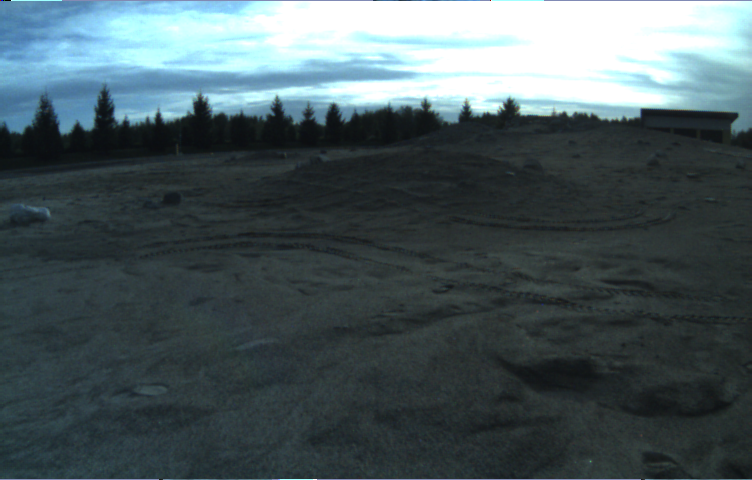
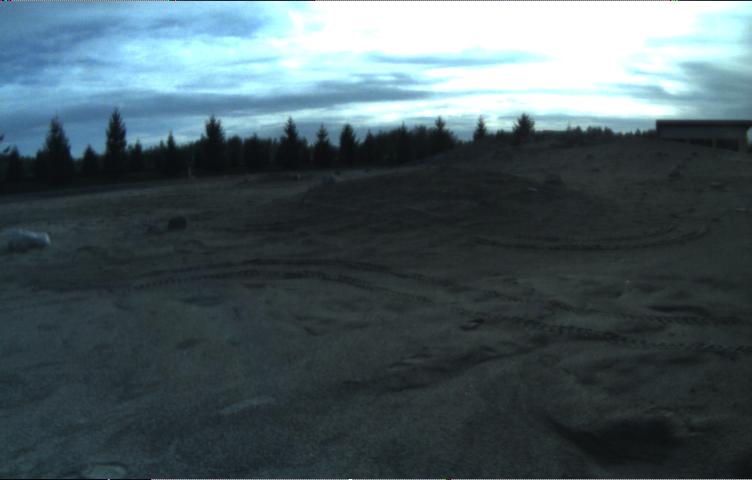
Update via upload

diff --git a/main.py b/main.py
@@ -1,7 +1,8 @@
 import numpy as np
 import cv2 as cv
 import scipy as sp
-import matplotlib.pyplot as plt
+from helper import *
+
 """
 Algorithm: Automatic Panorama Stitching (A simpler version)
 
@@ -11,7 +12,7 @@ Output: Panoramic image
 I. Extract SIFT features from all n images.
 II. Brute-Force Matching with SIFT Descriptors and Ratio Test
 III. For each image:
-    (i) Select m candidate matching images that have the most feature matches to this images (we use m = 5 since we know the omni-camera's configuration and for a given image, there will only be 5 other images that could match it)
+    (i) Select m candidate matching images that have the most feature matches to this images (we use m = 5 since we know the omni-camera's configuration and for a given image, there will only be 5 other images that could match it and we know which images are the candidates)
     (ii) Find consistent feature matches using RANSAC to solve the optimal homography between pairs of images
 IV. Find connected components of image matches
 V. For each connected component:
@@ -19,6 +20,7 @@ V. For each connected component:
     (ii) Render panorama using multi-band blending
 
 """
+
 
 # initializations
 img = []
@@ -32,7 +34,7 @@ sift = cv.SIFT_create()
 for i in range(10):
 
     # import images
-    image = cv.imread('./data/omni_image'+str(i)+'/image.png')
+    image = cv.imread('./data/omni_image'+str(i)+'/processed.png')
     img.append(image)
 
     # make current image to grey scale and
@@ -41,29 +43,35 @@ for i in range(10):
     # detect keypoints and compute descriptors from the keypoints
     kp, des = sift.detectAndCompute(gray,None)
 
-    # collect all the keypoints
+    # collect all the keypoints and descriptors
     kps.append(kp)
     dess.append(des)
 
-# II. Use brute force matching, BFMatcher with default params
-bf = cv.BFMatcher()
-matches = bf.knnMatch(dess[4],dess[5],k=2)
-
-# Store all the good matches as per Lowe's ratio test
-good = []
-for m,n in matches:
-    if m.distance < 0.75*n.distance:
-        good.append([m])
-
 # III. For each image
-for image in img:
+# initialize the brute force matcher
+bf = cv.BFMatcher()
+for cur_index in range(len(img)):
 
-    # (i) select 5 candidate matching images that have the most feature matches to this iamge
-    for i in range(m):
+    # (i) we know the 5 candidate matching images because they are taken by the 5 neighbour cameras
+    cand_images = []
 
+    # obtain the image index, i.e. the camera index for the 5 neighbour images relative to the current image index
+    index = obtain_index(cur_index)
+    for neighb_index in index:
+        cand_images.append(img[neighb_index])
 
+        # (ii)
+        # II. Use brute force matching, BFMatcher with default params
+        good = obtain_good_matches(bf,cur_index,neighb_index,dess)
 
-
+        # for each pair of images (cur_image, neighb_image), using RANSAC to filter inliers of the good matches and to solve for the homography
+        
+    # print(cur_index,neighb_index)
+    # print(len(good))
+    # print(good)
+    # if cur_index == 4 and neighb_index == -3:
+    #     img3 = cv.drawMatchesKnn(img[4],kps[4],img[-3],kps[-3],good,None,flags=cv.DrawMatchesFlags_NOT_DRAW_SINGLE_POINTS)
+    #     cv.imwrite('tests.jpg',img3)
 
 
 # if __name__=="__main__":

diff --git a/preprocessing.py b/preprocessing.py
@@ -1,0 +1,48 @@
+import cv2
+import numpy as np
+
+# def gamma_trans(img,gamma):#gamma函数处理
+#     gamma_table=[np.power(x/255.0,gamma)*255.0 for x in range(256)]#建立映射表
+#     gamma_table=np.round(np.array(gamma_table)).astype(np.uint8)#颜色值为整数
+#     return cv.LUT(img,gamma_table)#图片颜色查表。另外可以根据光强（颜色）均匀化原则设计自适应算法。
+#
+# for i in range(10):
+#     image = cv.imread('./data/omni_image'+str(i)+'/image.png')
+#
+#     value_of_gamma=cv.getTrackbarPos('Value of Gamma','demo')#gamma取值
+#     value_of_gamma=value_of_gamma*0.01#压缩gamma范围，以进行精细调整
+#     image_gamma_correct=gamma_trans(image,value_of_gamma)#2.5为gamma函数的指数值，大于1曝光度下降，大于0小于1曝光度增强
+#     cv.imwrite('./data/omni_image'+str(i)+'/processed.png',image_gamma_correct)
+#
+# print('Processing Completed.')
+
+
+def gamma_trans(img,gamma):#gamma函数处理
+    gamma_table=[np.power(x/255.0,gamma)*255.0 for x in range(256)]#建立映射表
+    gamma_table=np.round(np.array(gamma_table)).astype(np.uint8)#颜色值为整数
+    return cv2.LUT(img,gamma_table)#图片颜色查表。另外可以根据光强（颜色）均匀化原则设计自适应算法。
+def nothing(x):
+    pass
+
+cv2.namedWindow("demo",0)#将显示窗口的大小适应于显示器的分辨率
+cv2.createTrackbar('Value of Gamma','demo',100,1000,nothing)#使用滑动条动态调节参数gamma
+
+data_base_dir="C:\\Users\\HUANG\\Desktop\\pict"#输入文件夹的路径
+outfile_dir="C:\\Users\\HUANG\\Desktop\\pictout"#输出文件夹的路径
+processed_number=0#统计处理图片的数量
+print ("press enter to make sure your operation and process the next picture")
+
+for i in range(10):
+    image = cv2.imread('./data/omni_image'+str(i)+'/image.png')#读入图片
+
+    while(1):
+        value_of_gamma=cv2.getTrackbarPos('Value of Gamma','demo')#gamma取值
+        value_of_gamma=value_of_gamma*0.01#压缩gamma范围，以进行精细调整
+        image_gamma_correct=gamma_trans(image,value_of_gamma)#2.5为gamma函数的指数值，大于1曝光度下降，大于0小于1曝光度增强
+        cv2.imshow("demo",image_gamma_correct)
+        k=cv2.waitKey(1)
+        if k==13:#按回车键确认处理、保存图片到输出文件夹和读取下一张图片
+            processed_number+=1
+            cv2.imwrite('./data/omni_image'+str(i)+'/processed.png',image_gamma_correct)
+            print ("The number of photos which were processed is ",processed_number)
+            break

diff --git a/main2.py b/main2.py
@@ -26,37 +26,30 @@ kps = []
 dess = []
 # initialize sift detector
 sift = cv.SIFT_create()
-# for i in range(2):
-#     image = cv.imread('./data/omni_image'+str(i)+'/image.png')
-#     img.append(image)
-#
-#     # make current image to grey scale and
-#     gray = cv.cvtColor(image,cv.COLOR_BGR2GRAY)
-#
-#     # detect keypoints and compute descriptors from the keypoints
-#     kp, des = sift.detectAndCompute(gray,None)
-#
-#     # collect all the keypoints
-#     kps.append(kp)
-#     dess.append(des)
+for i in range(10):
+    image = cv.imread('./data/omni_image'+str(i)+'/processed.png')
+    img.append(image)
 
-img1 = cv.imread('./data/omni_image0/image.png',cv.IMREAD_GRAYSCALE)          # queryImage
-img2 = cv.imread('./data/omni_image1/image.png',cv.IMREAD_GRAYSCALE) # trainImage
-# Initiate SIFT detector
-sift = cv.SIFT_create()
-# find the keypoints and descriptors with SIFT
-kp1, des1 = sift.detectAndCompute(img1,None)
-kp2, des2 = sift.detectAndCompute(img2,None)
+    # make current image to grey scale and
+    gray = cv.cvtColor(image,cv.COLOR_BGR2GRAY)
+
+    # detect keypoints and compute descriptors from the keypoints
+    kp, des = sift.detectAndCompute(gray,None)
+
+    # collect all the keypoints
+    kps.append(kp)
+    dess.append(des)
+
 # BFMatcher with default params
 bf = cv.BFMatcher()
-matches = bf.knnMatch(des1,des2,k=2)
+matches = bf.knnMatch(dess[4],dess[7],k=2)
 # Apply ratio test
 good = []
 for m,n in matches:
     if m.distance < 0.75*n.distance:
         good.append([m])
 # cv.drawMatchesKnn expects list of lists as matches.
-img3 = cv.drawMatchesKnn(img1,kp1,img2,kp2,good,None,flags=cv.DrawMatchesFlags_NOT_DRAW_SINGLE_POINTS)
+img3 = cv.drawMatchesKnn(img[4],kps[4],img[7],kps[7],good,None,flags=cv.DrawMatchesFlags_NOT_DRAW_SINGLE_POINTS)
 
 #plt.imshow(img3),plt.show()
 

diff --git a/alpha_beta_adjustment.py b/alpha_beta_adjustment.py
@@ -1,0 +1,56 @@
+import cv2
+import numpy as np
+from matplotlib import pyplot as plt
+
+# Automatic brightness and contrast optimization with optional histogram clipping
+def automatic_brightness_and_contrast(image, clip_hist_percent=1):
+    gray = cv2.cvtColor(image, cv2.COLOR_BGR2GRAY)
+
+    # Calculate grayscale histogram
+    hist = cv2.calcHist([gray],[0],None,[256],[0,256])
+    hist_size = len(hist)
+
+    # Calculate cumulative distribution from the histogram
+    accumulator = []
+    accumulator.append(float(hist[0]))
+    for index in range(1, hist_size):
+        accumulator.append(accumulator[index -1] + float(hist[index]))
+
+    # Locate points to clip
+    maximum = accumulator[-1]
+    clip_hist_percent *= (maximum/100.0)
+    clip_hist_percent /= 2.0
+
+    # Locate left cut
+    minimum_gray = 0
+    while accumulator[minimum_gray] < clip_hist_percent:
+        minimum_gray += 1
+
+    # Locate right cut
+    maximum_gray = hist_size -1
+    while accumulator[maximum_gray] >= (maximum - clip_hist_percent):
+        maximum_gray -= 1
+
+    # Calculate alpha and beta values
+    alpha = 255 / (maximum_gray - minimum_gray)
+    beta = -minimum_gray * alpha
+
+    #'''
+    # Calculate new histogram with desired range and show histogram
+    new_hist = cv2.calcHist([gray],[0],None,[256],[minimum_gray,maximum_gray])
+    plt.plot(hist)
+    plt.plot(new_hist)
+    plt.xlim([0,256])
+    plt.show()
+    #'''
+
+    auto_result = cv2.convertScaleAbs(image, alpha=alpha, beta=beta)
+    return (auto_result, alpha, beta)
+
+image = cv2.imread('./data/omni_image'+str(5)+'/image.png')
+#image = cv2.imread('./data/Untitled.png')
+auto_result, alpha, beta = automatic_brightness_and_contrast(image)
+print('alpha', alpha)
+print('beta', beta)
+cv2.imshow('auto_result', auto_result)
+cv2.waitKey()

diff --git a/gamma_auto_correction.py b/gamma_auto_correction.py
@@ -1,0 +1,25 @@
+import cv2 as cv
+import numpy as np
+
+def gamma_trans(img,gamma):#gamma函数处理
+    gamma_table=[np.power(x/255.0,gamma)*255.0 for x in range(256)]#建立映射表
+    gamma_table=np.round(np.array(gamma_table)).astype(np.uint8)#颜色值为整数
+    return cv.LUT(img,gamma_table)#图片颜色查表。另外可以根据光强（颜色）均匀化原则设计自适应算法。
+
+def get_Gamma_Value(gray_img):
+    mean_value = cv.mean(gray_img)
+
+    val = mean_value[0]
+    gamma_val = (np.log10(0.5))/(np.log10(val / 255.0))
+
+    return gamma_val
+
+for i in range(10):
+    image = cv.imread('./data/omni_image'+str(i)+'/image.png')
+    gray_img = cv.cvtColor(image,cv.COLOR_BGR2GRAY)
+    value_of_gamma= get_Gamma_Value(gray_img)#gamma取值
+    # value_of_gamma=value_of_gamma*0.01#压缩gamma范围，以进行精细调整
+    image_gamma_correct=gamma_trans(image,value_of_gamma)#2.5为gamma函数的指数值，大于1曝光度下降，大于0小于1曝光度增强
+    cv.imwrite('./data/omni_image'+str(i)+'/gamma_corrected.png',image_gamma_correct)
+
+print('Processing Completed.')

diff --git a/helper.py b/helper.py
@@ -1,0 +1,28 @@
+def obtain_index(i):
+
+    # if the current image is taken by the bottom row cam (i is odd)
+    if i%2 != 0:
+        # the top image is one of the candidate tp = i-1
+        # then we take 4 more images from the left and right cameras
+        # tpr = i-3 btr = i-2 tpl = i-9 btl = i-8 (cannot use + b/c index might be out of bound)
+        return [i-1,i-3,i-2,i-9,i-8]
+
+    #else i is even, the image is taken by the top row cam
+    else:
+        # the bottom image is one of the candidate bt = i+1
+        # then we take 4 more images from the left and right cameras
+        # tpr = i-2 btr = i-1 tpl = i-8 btl = i-7
+        return [i+1,i-2,i-1,i-8,i-7]
+
+def obtain_good_matches(bf,cur_index, neighb_index,dess):
+
+    # use brute force match to find the kth nearest neighbour match
+    matches = bf.knnMatch(dess[cur_index],dess[neighb_index],k=2)
+
+    # Store all the good matches as per Lowe's ratio test
+    good = []
+    for m,n in matches:
+        if m.distance < 0.75*n.distance:
+            good.append([m])
+
+    return good

diff --git a/preprocess_exposure.py b/preprocess_exposure.py
@@ -1,0 +1,18 @@
+import cv2 as cv
+import numpy as np
+
+def main():
+
+    for i in range(10):
+        image = cv.imread('./data/omni_image'+str(i)+'/image.png')
+
+        equalized = np.zeros(image.shape, image.dtype)
+        equalized[:, :, 0] = cv.equalizeHist(image[:, :, 0])
+        equalized[:, :, 1] = cv.equalizeHist(image[:, :, 1])
+        equalized[:, :, 2] = cv.equalizeHist(image[:, :, 2])
+        cv.imwrite('./data/omni_image'+str(i)+'/equlized.png', equalized)
+
+    print('Processing Completed.')
+
+if __name__ == '__main__':
+    main()

diff --git a/USM_Sharpen.py b/USM_Sharpen.py
@@ -1,0 +1,17 @@
+import cv2 as cv
+import numpy as np
+
+for i in range(10):
+    image = cv.imread('./data/omni_image'+str(i)+'/gamma_corrected.png')
+
+    # Perform USM sharpen algorithm
+    blur_img = cv.GaussianBlur(image,(0,0),4)
+    usm = cv.addWeighted(image,1.4, blur_img,-0.4, 0)
+    h, w = image.shape[:2]
+    processed = np.zeros([h,w,3],dtype=image.dtype)
+    processed[0:h,0:w,:] = usm
+    #processed[0:h,w:2*w,:] = usm
+
+    cv.imwrite('./data/omni_image'+str(i)+'/processed.png',processed)
+
+print('Processing Completed.')

diff --git a/RANSAC.py b/RANSAC.py
@@ -7,7 +7,7 @@ def ransac(kp_pairs, tol, iter):
     RANSAC is essentially a sampling approach to estimating H, the homography.
     In the case of panoramas we select sets of r = 4 feature correspondences and compute the homography H.
 
-    We repeat this with n = 500 trials and select the solution that has the maximum number
+    We repeat this with iter = 500 trials and select the solution that has the maximum number
     of inliers
 
     Parameters:

diff --git a/import_images.py b/import_images.py
@@ -2,7 +2,7 @@ import shutil
 
 src = 'C:/Users/skyho/Desktop/YEAR 4/ROB501/Assignments/Project/data/omni_image'
 dst = './data/omni_image'
-frame = '/frame000885_2018_09_04_17_46_46_255790.png'
+frame = '/frame000891_2018_09_04_17_46_47_641889.png'
 
 for i in range(0,10):
     shutil.copy2(src+str(i)+frame, dst+str(i)+'/image.png') # complete target filename given
